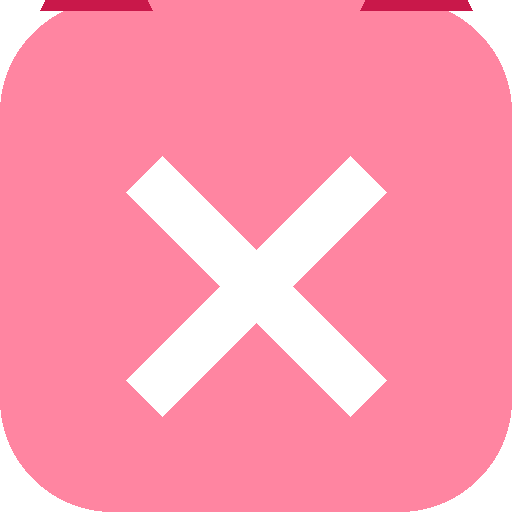
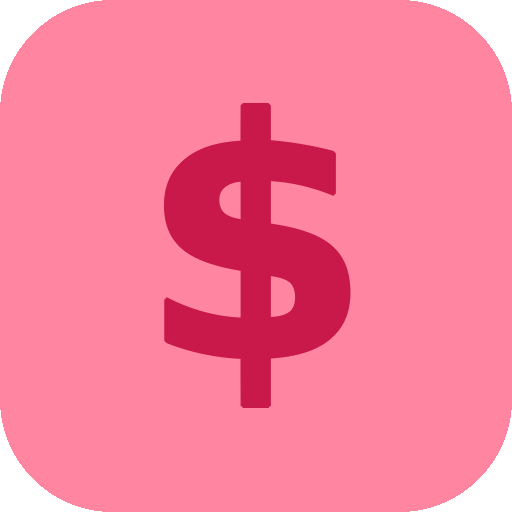
app updates

Changed region(s): [[0.25, 0.1875, 0.75, 0.8125], [0.6875, 0.0, 0.9375, 0.0312], [0.0625, 0.0, 0.3125, 0.0312]]

diff --git a/index.html b/index.html
@@ -9,7 +9,7 @@
     <meta name="apple-mobile-web-app-title" content="KittyBudget" />
     <meta name="viewport" content="width=device-width, initial-scale=1.0" />
     <title>KittyBudget 🎀</title>
-    <script type="module" crossorigin src="/KittyBudget/assets/index-UzI3WCZ3.js"></script>
+    <script type="module" crossorigin src="/KittyBudget/assets/index-Di_-lmQ0.js"></script>
     <link rel="stylesheet" crossorigin href="/KittyBudget/assets/index-zuDIH19Z.css">
   <link rel="manifest" href="/KittyBudget/manifest.webmanifest"><script id="vite-plugin-pwa:register-sw" src="/KittyBudget/registerSW.js"></script></head>
   <body>

diff --git a/sw.js b/sw.js
@@ -1,1 +1,1 @@
-if(!self.define){let e,i={};const n=(n,s)=>(n=new URL(n+".js",s).href,i[n]||new Promise(i=>{if("document"in self){const e=document.createElement("script");e.src=n,e.onload=i,document.head.appendChild(e)}else e=n,importScripts(n),i()}).then(()=>{let e=i[n];if(!e)throw new Error(`Module ${n} didn’t register its module`);return e}));self.define=(s,r)=>{const c=e||("document"in self?document.currentScript.src:"")||location.href;if(i[c])return;let o={};const f=e=>n(e,c),t={module:{uri:c},exports:o,require:f};i[c]=Promise.all(s.map(e=>t[e]||f(e))).then(e=>(r(...e),o))}}define(["./workbox-9c191d2f"],function(e){"use strict";self.skipWaiting(),e.clientsClaim(),e.precacheAndRoute([{url:"registerSW.js",revision:"cf5352e76474fec955194f28d9791fc2"},{url:"index.html",revision:"b4cf7289bc5bf91c3f7b00a99630fb3d"},{url:"icons.svg",revision:"3b4fcfcf393eca4d264dca4a4663bc37"},{url:"icon-512.png",revision:"5ce7967c8a89c9d65b34a20a51f5459a"},{url:"icon-192.png",revision:"28da14b53b44a83af0e503f5b87330f3"},{url:"favicon.svg",revision:"6d168c81644219fab6ef682c03f8ee46"},{url:"assets/index-zuDIH19Z.css",revision:null},{url:"assets/index-UzI3WCZ3.js",revision:null},{url:"manifest.webmanifest",revision:"2bc94a8ebf1bc8bbcefb58e5a1217d97"}],{}),e.cleanupOutdatedCaches(),e.registerRoute(new e.NavigationRoute(e.createHandlerBoundToURL("index.html")))});
+if(!self.define){let e,i={};const n=(n,s)=>(n=new URL(n+".js",s).href,i[n]||new Promise(i=>{if("document"in self){const e=document.createElement("script");e.src=n,e.onload=i,document.head.appendChild(e)}else e=n,importScripts(n),i()}).then(()=>{let e=i[n];if(!e)throw new Error(`Module ${n} didn’t register its module`);return e}));self.define=(s,r)=>{const o=e||("document"in self?document.currentScript.src:"")||location.href;if(i[o])return;let t={};const c=e=>n(e,o),f={module:{uri:o},exports:t,require:c};i[o]=Promise.all(s.map(e=>f[e]||c(e))).then(e=>(r(...e),t))}}define(["./workbox-9c191d2f"],function(e){"use strict";self.skipWaiting(),e.clientsClaim(),e.precacheAndRoute([{url:"registerSW.js",revision:"cf5352e76474fec955194f28d9791fc2"},{url:"index.html",revision:"71aadb9ea0aff45ea60ab1c78b8549a5"},{url:"icons.svg",revision:"3b4fcfcf393eca4d264dca4a4663bc37"},{url:"icon-512.png",revision:"93f7b034eef081f8bebff43254907e11"},{url:"icon-192.png",revision:"5b4622799e9800d18b3445a051e6e489"},{url:"favicon.svg",revision:"a3dd20f4a493a2ce8807d3a378224ae4"},{url:"assets/index-zuDIH19Z.css",revision:null},{url:"assets/index-Di_-lmQ0.js",revision:null},{url:"manifest.webmanifest",revision:"2bc94a8ebf1bc8bbcefb58e5a1217d97"}],{}),e.cleanupOutdatedCaches(),e.registerRoute(new e.NavigationRoute(e.createHandlerBoundToURL("index.html")))});